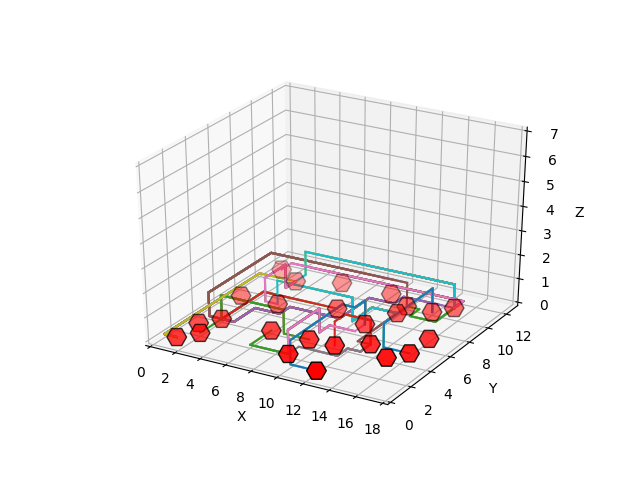
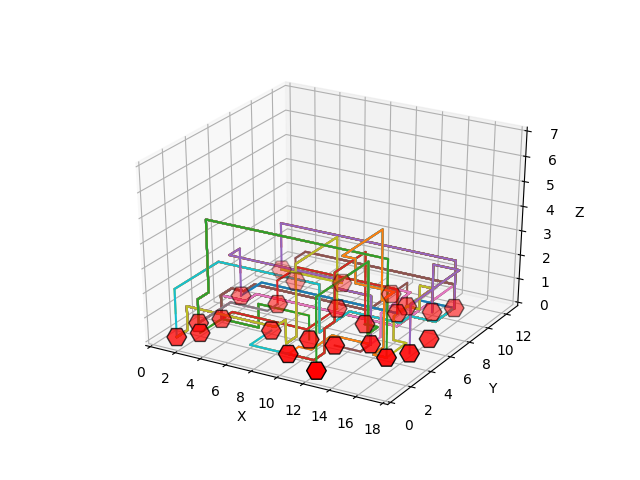
start hillclimb

Changed region(s): [[0.25, 0.4375, 0.7188, 0.7812]]

diff --git a/code/algorithms/hillclimb.py b/code/algorithms/hillclimb.py
@@ -1,0 +1,71 @@
+from code.algorithms.xyz_move import xyz_wire
+
+def find_point_stuck(output_dict, unsolved_wire):
+	""" Find the point where the wire gets stuck in the grid. """
+
+	stuck_dict = {}
+	for net, wire in output_dict.items():
+		# check if no wire
+		if len(wire) < 2:
+
+			# look in wire
+			for point in unsolved_wire[net]:
+				# find the point where wire gets stuck
+				if net[1][0] == point[0] and net[1][1] == point[1] and (unsolved_wire[net].count(point) == 1):
+					stuck_dict[net] = point
+					break
+
+	return stuck_dict
+
+
+def find_blocking_wire(output_dict, stuck_dict):
+	""" Find the wires that block other wires. """
+
+	block_dict = {}
+	for point in stuck_dict.values():
+		for net, wire in output_dict.items():
+
+			# check if wire is below point
+			if (point[0], point[1], (point[2] - 1)) in wire:
+				block_dict[net] = wire
+
+	return block_dict
+
+def change_wires(stuck_dict, block_dict, chip, output_dict):
+	""" Changes the wires that block other wires. """
+
+	block_netlist = []
+	stuck_netlist = []
+
+	# remove blocked wires
+	for net, wire in block_dict.items():
+		block_netlist.append(net)
+		for point in wire:
+			chip.grid[point[0]][point[1]][point[2]] = False
+
+	# lay stuck wires
+	for net, point in stuck_dict.items():
+		stuck_netlist.append(net)
+
+		for z in range(int(point[2]) + 1):
+			chip.grid[point[0]][point[1]][point[2] - z] = True
+
+
+	block_wires = xyz_wire(block_netlist, chip)
+
+	# make sure stuck wires can be laid
+	for net, point in stuck_dict.items():
+		stuck_netlist.append(net)
+		for z in range(int(point[2]) + 1):
+			chip.grid[point[0]][point[1]][point[2] - z] = False
+
+	stuck_wires = xyz_wire(stuck_netlist, chip)
+
+	print("output_dict", output_dict)
+	print("stuck_wires", dict(stuck_wires))
+	print("block_wires", dict(block_wires))
+	output_dict.update(block_wires)
+	output_dict.update(stuck_wires)
+
+
+	return output_dict

diff --git a/code/classes/wiring.py b/code/classes/wiring.py
@@ -13,6 +13,7 @@ import csv
 from code.algorithms.xyz_move import xyz_wire
 from code.algorithms.astar import execute_astar
 from code.algorithms.iddfs import execute_dfs
+from code.algorithms.hillclimb import *
 
 class Wiring():
 	""" This class outputs wires to connect gates as listed in netlist. """
@@ -21,7 +22,14 @@ class Wiring():
 		self.chip = chip
 		self.netlist = netlist
 		algorithm = self.choose_alg(alg_req)
-		self.wire = algorithm(self.netlist, self.chip)
+		if alg_req == 'xyz_move':
+			self.wire, self.unsolved = algorithm(self.netlist, self.chip)
+		else:
+			self.wire = algorithm(self.netlist, self.chip)
+		self.stuck = find_point_stuck(self.wire, self.unsolved)
+		self.block = find_blocking_wire(self.wire, self.stuck)
+		self.new_wires = change_wires(self.stuck, self.block, self.chip, self.wire)
+
 		self.output(self.wire)
 
 

diff --git a/code/algorithms/xyz_move.py b/code/algorithms/xyz_move.py
@@ -3,6 +3,7 @@ def xyz_wire(netlist, chip):
 	""" Determine wire needed to connect the nets. """
 
 	output_dict = {}
+	unsolved_wire = {}
 
 	for net in netlist:
 		wire = []
@@ -53,10 +54,13 @@ def xyz_wire(netlist, chip):
 				# move +z if z of end is larger and +z is open
 				else:
 					if current[2] + 1 == 8:
+						print("tot hier komt ie: ", wire)
+						print(f"dit is het eind: {end}" )
 						output_dict[net] = [(0, 0, 0)]
+						unsolved_wire[net] = wire
 						break
 					current[2] += 1
 					chip.grid[current[0]][current[1]][current[2]] = True
 					wire.append(tuple(current))
 
-	return output_dict
+	return output_dict, unsolved_wire

diff --git a/main.py b/main.py
@@ -88,6 +88,8 @@ if __name__ == '__main__':
 			if len(wire) != 1:
 				count +=1
 
+		print(wires.new_wire)
+
 		print(f"The algorithm laid {count} wires.\n")
 		total_count += count
 
